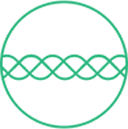
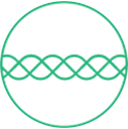
wip

diff --git a/app/assets/stylesheets/pages.css.scss b/app/assets/stylesheets/pages.css.scss
@@ -200,7 +200,7 @@ p {
     }
 
     #braid .step-img {
-      background-image:url(/assets/braid-hover-large4.png);
+      background-image:url(/assets/braid-hover.png);
       &.hide-background {
         background:transparent;
       }
